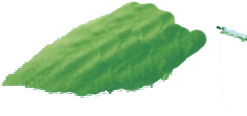
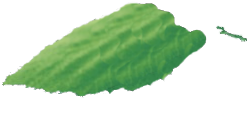
fix background pic issues and speed up fall animation

diff --git a/index.html b/index.html
@@ -16,7 +16,7 @@
     <div class="background">
         <div class="top-branch-leaves">
             <img src="./leaf-bg/top twig.png" alt="twig" class="leaf" id="top-twig">
-            <img src="./leaf-bg/top-branch.png" alt="branch" class="top-branch">
+            <img src="./leaf-bg/top-branch2.png" alt="branch" class="top-branch">
             <img src="./leaf-bg/leaf1.png" alt="leaf" class="leaf" id="leaf1">
             <img src="./leaf-bg/leaf2.png" alt="leaf" class="leaf" id="leaf2">
             <img src="./leaf-bg/leaf3.png" alt="leaf" class="leaf" id="leaf3">
@@ -43,7 +43,7 @@
 
         <div class="side-branch-leaves">
             <div class="branch-container">
-            <img src="./leaf-bg/side-branch.png" alt="side-branch" id="side-branch">
+            <img src="./leaf-bg/side-branch2.png" alt="side-branch" id="side-branch">
             </div>
             <div class="side leaves-container">
             <img src="./leaf-bg/leaf29.png" alt="leaf" class="leaf" id="leaf29">
@@ -60,11 +60,11 @@
             <img src="./leaf-bg/leaf43new.png" alt="leaf" class="leaf" id="leaf43">
             <img src="./leaf-bg/leaf44.png" alt="leaf" class="leaf" id="leaf44">
             <img src="./leaf-bg/leaf45.png" alt="leaf" class="leaf" id="leaf45">
-            <img src="./leaf-bg/leaf47.png" alt="leaf" class="leaf" id="leaf47">
+            <img src="./leaf-bg/leaf47b.png" alt="leaf" class="leaf" id="leaf47">
             <img src="./leaf-bg/leaf48.png" alt="leaf" class="leaf" id="leaf48">
             <img src="./leaf-bg/leaf49new.png" alt="leaf" class="leaf" id="leaf49">
             <img src="./leaf-bg/leaf50new.png" alt="leaf" class="leaf" id="leaf50">
-            <img src="./leaf-bg/leaf47.png" alt="leaf" class="leaf" id="leaf51">
+            <img src="./leaf-bg/leaf47b.png" alt="leaf" class="leaf" id="leaf51">
             </div>
         </div>
 
@@ -87,7 +87,7 @@
             <img src="./logos/jcacmLogo400.png" alt="logo">
             <p>Jencat&Cavemutt</p>
         </div>
-        <i class="fa-sharp fa-solid fa-user" role="button" id="reset-button" title="Reset User Data"></i>
+        <i class="fa-sharp fa-solid fa-user" role="button" id="reset-button" title="Reset User & List Data"></i>
     </header>
     <dialog class="reset-modal" id="reset-modal">
         <p class="warning">!</p>

diff --git a/style.css b/style.css
@@ -458,7 +458,7 @@ form {
         -ms-transform: translateY(0vh);
         -o-transform: translateY(0vh);
 }
-    5% {
+    3% {
         opacity: 1;
         transform: translateY(0.5vh) rotate(-8deg);
         -webkit-transform: translateY(0.5vh) rotate(-8deg);
@@ -466,7 +466,7 @@ form {
         -ms-transform: translateY(0.5vh) rotate(-8deg);
         -o-transform: translateY(0.5vh) rotate(-8deg);
 }
-    10% {
+    7% {
         opacity: 1;
         transform: translateY(-3vh) rotate(-5deg);
         -webkit-transform: translateY(-3vh) rotate(-5deg);
